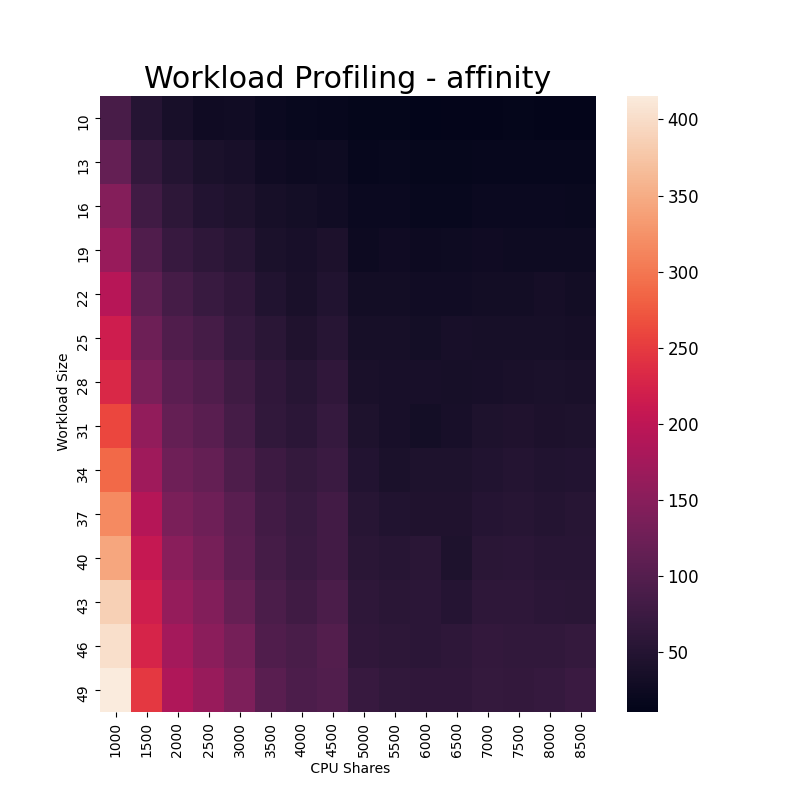
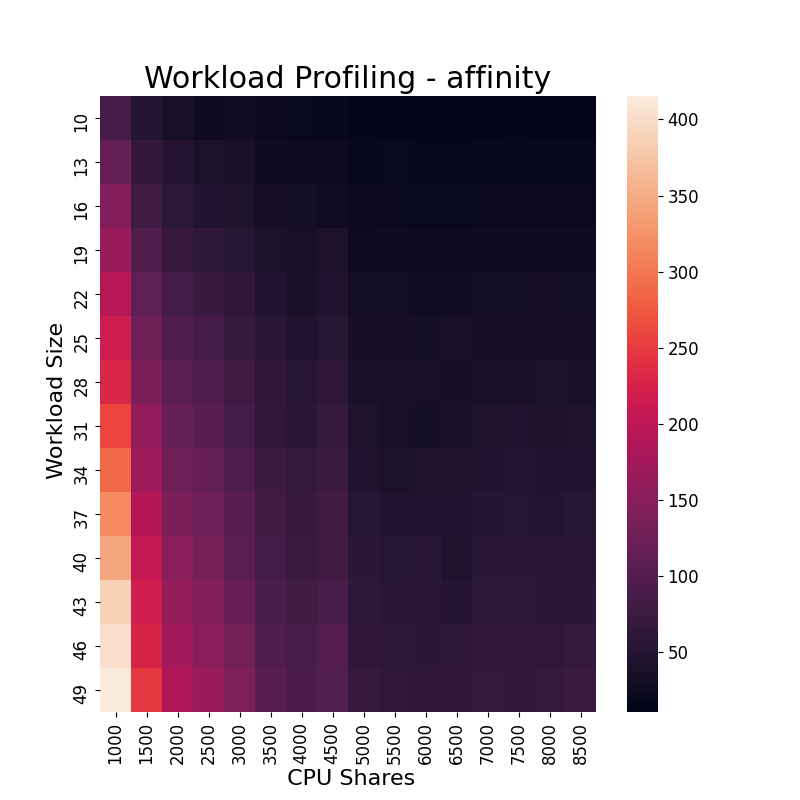
Fixed affinity figure

diff --git a/simulation/workload_profiler/plot_workload_figures.py b/simulation/workload_profiler/plot_workload_figures.py
@@ -11,15 +11,20 @@ def generate_workload_figures(workloads: List[Workload]):
     print(SIMULATION_DIR + PROFILER_OUTPUT_PATH)
     df: pandas.DataFrame = pandas.read_csv(
         SIMULATION_DIR + PROFILER_OUTPUT_PATH)
-    plt.subplots(figsize=(10, 10))
+    plt.subplots(figsize=(8, 8))
+    plt.rcParams.update({
+        'font.size': 18,
+        'axes.labelsize': 16,
+        "xtick.labelsize": 12,
+        "ytick.labelsize": 12})
+    plt.clf()
     for workload in workloads:
         workload_df = df[df[df.columns[0]] ==
                          workload.task.task_name][df.columns[1:]]
         workload_df = workload_df.pivot(
             index=workload_df.columns[0], columns=workload_df.columns[1], values=workload_df.columns[2])
-        # print(workload_df)
-        # Sample figsize in inches
         seaborn.heatmap(workload_df)
+        plt.title(f"Workload Profiling - {workload.task.task_name}")
         plt.savefig(
             f"{SIMULATION_DIR}/workload_profiler/figures/{workload.task.task_name}.png")
         plt.clf()
@@ -27,3 +32,7 @@ def generate_workload_figures(workloads: List[Workload]):
 
 def main():
     generate_workload_figures(WORKLOADS)
+
+
+if __name__ == "__main__":
+    main()
